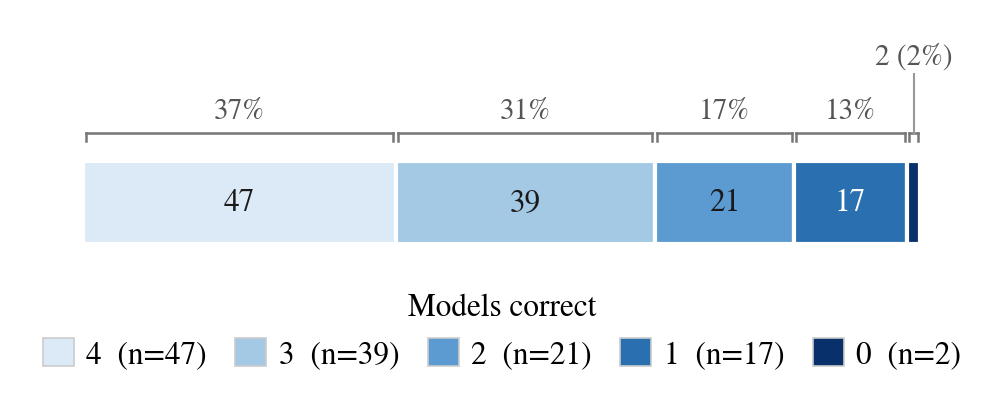
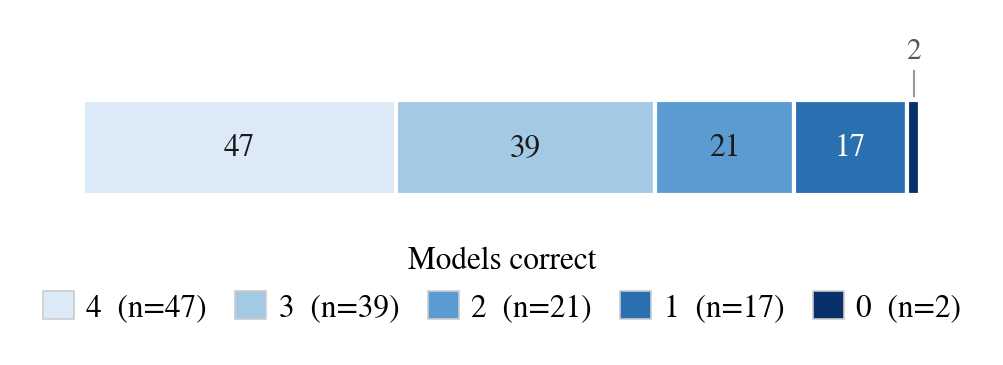
Simplify difficulty figure to counts only

diff --git a/scripts/make_paper_assets.py b/scripts/make_paper_assets.py
@@ -256,35 +256,24 @@ def fig_category_overall():
 
 def fig_difficulty_stackbar(dist, total):
     """Soru-zorluk dagilimi: tek yatay %100 stacked bar."""
-    fig, ax = plt.subplots(figsize=(3.6, 1.0))
+    fig, ax = plt.subplots(figsize=(3.6, 0.8))
     left = 0.0
-    LINE, TICK = 0.42, 0.05  # olcu cizgisi yuksekligi ve uc-tik boyu
-    for i, k in enumerate(sorted(dist, reverse=True)):  # 4 -> 0
+    for k in sorted(dist, reverse=True):  # 4 -> 0
         v = dist[k]
         ax.barh(0, v, left=left, height=0.5, color=DIFFICULTY_RAMP[k],
                 edgecolor="white", linewidth=1.0, zorder=3)
         cx = left + v / 2
-        pct = f"{100.0 * v / total:.0f}%"
-        # segmentin basini-sonunu gosteren olcu cizgisi (tikler SADECE asagi)
-        pad = 0.35
-        xs, xe = left + pad, left + v - pad
-        ax.plot([xs, xe], [LINE, LINE], color="#777777", linewidth=0.6)
-        ax.plot([xs, xs], [LINE - TICK, LINE], color="#777777", linewidth=0.6)
-        ax.plot([xe, xe], [LINE - TICK, LINE], color="#777777", linewidth=0.6)
         if v >= 6:
-            # adet kutunun ICINDE, yuzde cizginin ustunde
             ax.text(cx, 0, str(v), ha="center", va="center", fontsize=7.5,
                     color="white" if k <= 1 else "#1A1A1A")
-            ax.text(cx, LINE + 0.05, pct, ha="center", va="bottom",
-                    fontsize=7, color=MUTED)
-        else:  # cok dar segment: adet+yuzde yukarida, kisa baglantiyla
-            ax.plot([cx, cx], [LINE, 0.78], color="#999999", linewidth=0.5)
-            ax.text(cx, 0.80, f"{v} ({pct})", ha="center", va="bottom",
+        else:  # cok dar segment: adet yukarida, kisa baglantiyla
+            ax.plot([cx, cx], [0.27, 0.40], color="#999999", linewidth=0.5)
+            ax.text(cx, 0.43, str(v), ha="center", va="bottom",
                     fontsize=7, color=MUTED)
         left += v
 
     ax.set_xlim(0, total)
-    ax.set_ylim(-0.35, 1.05)
+    ax.set_ylim(-0.35, 0.62)
     ax.set_yticks([])
     ax.set_xticks([])
     ax.spines["left"].set_visible(False)
